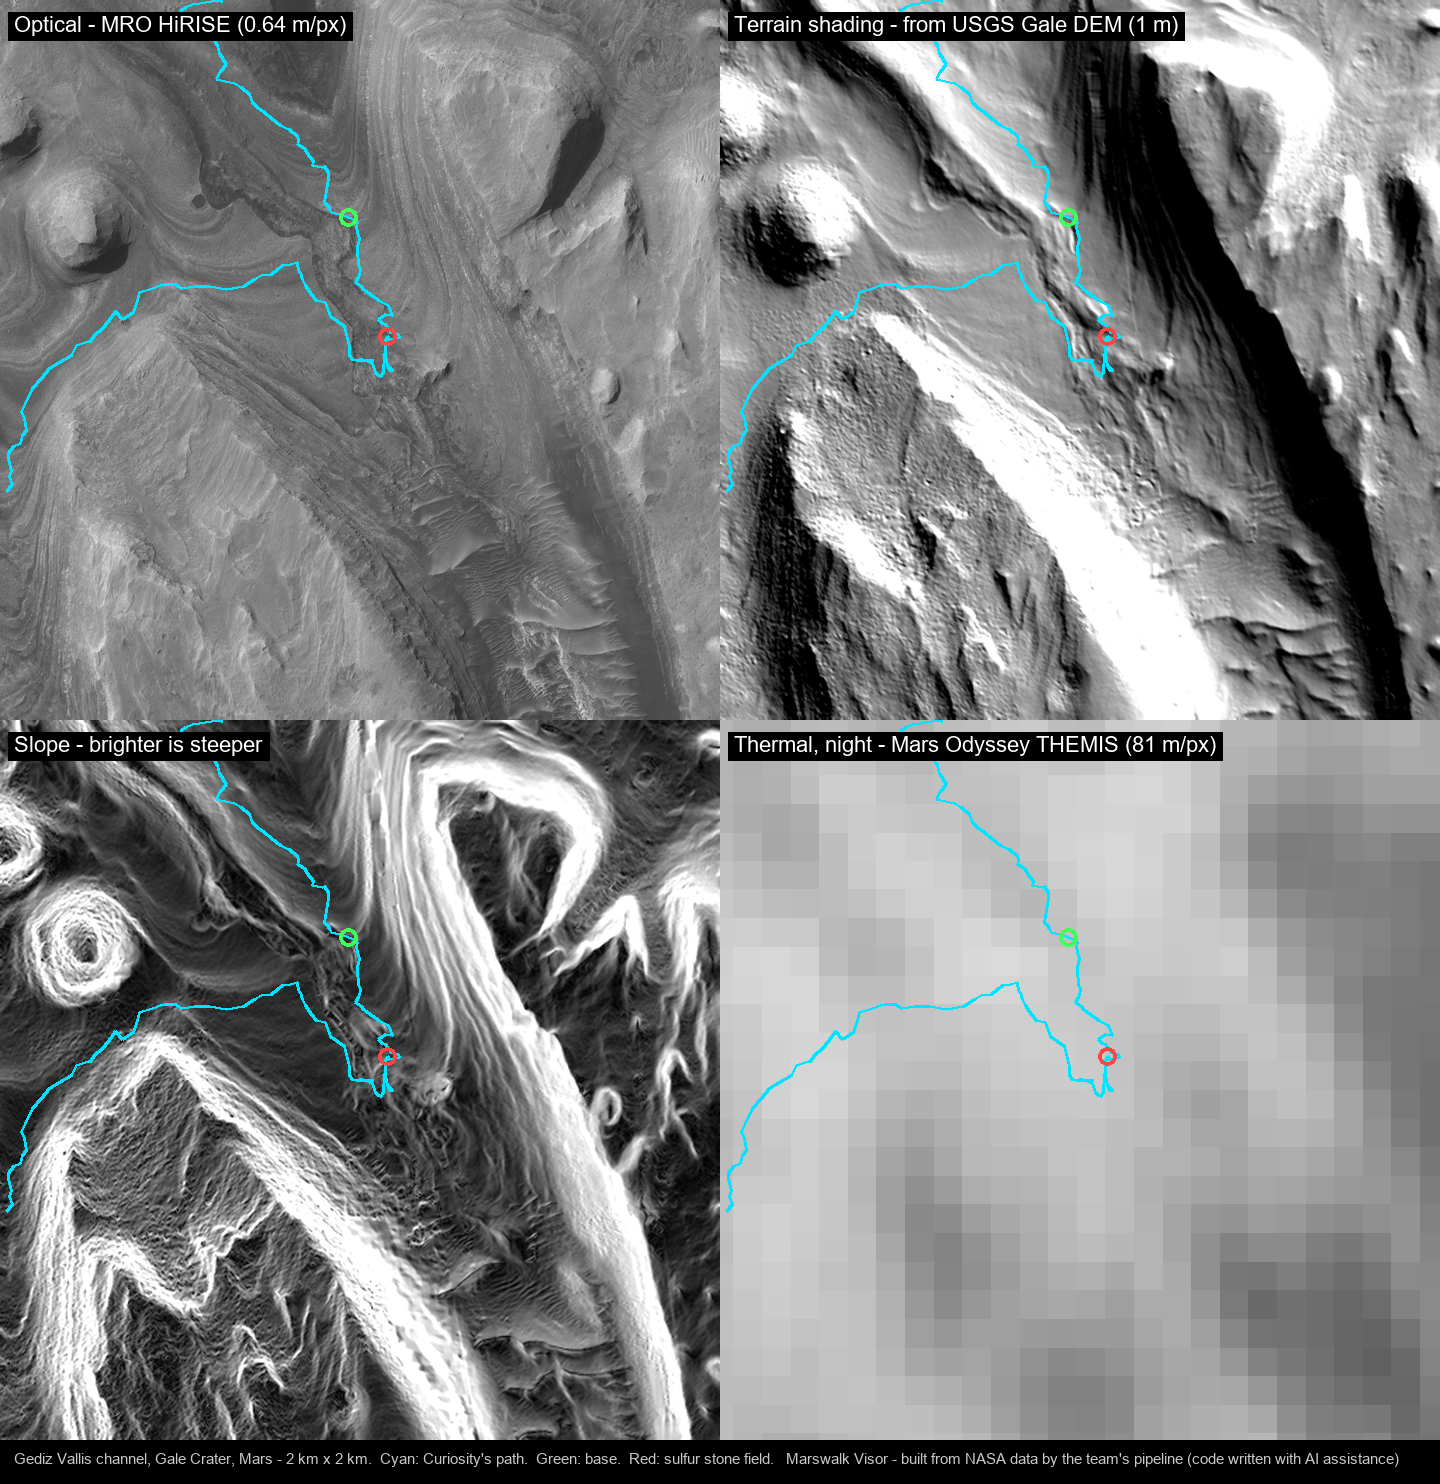
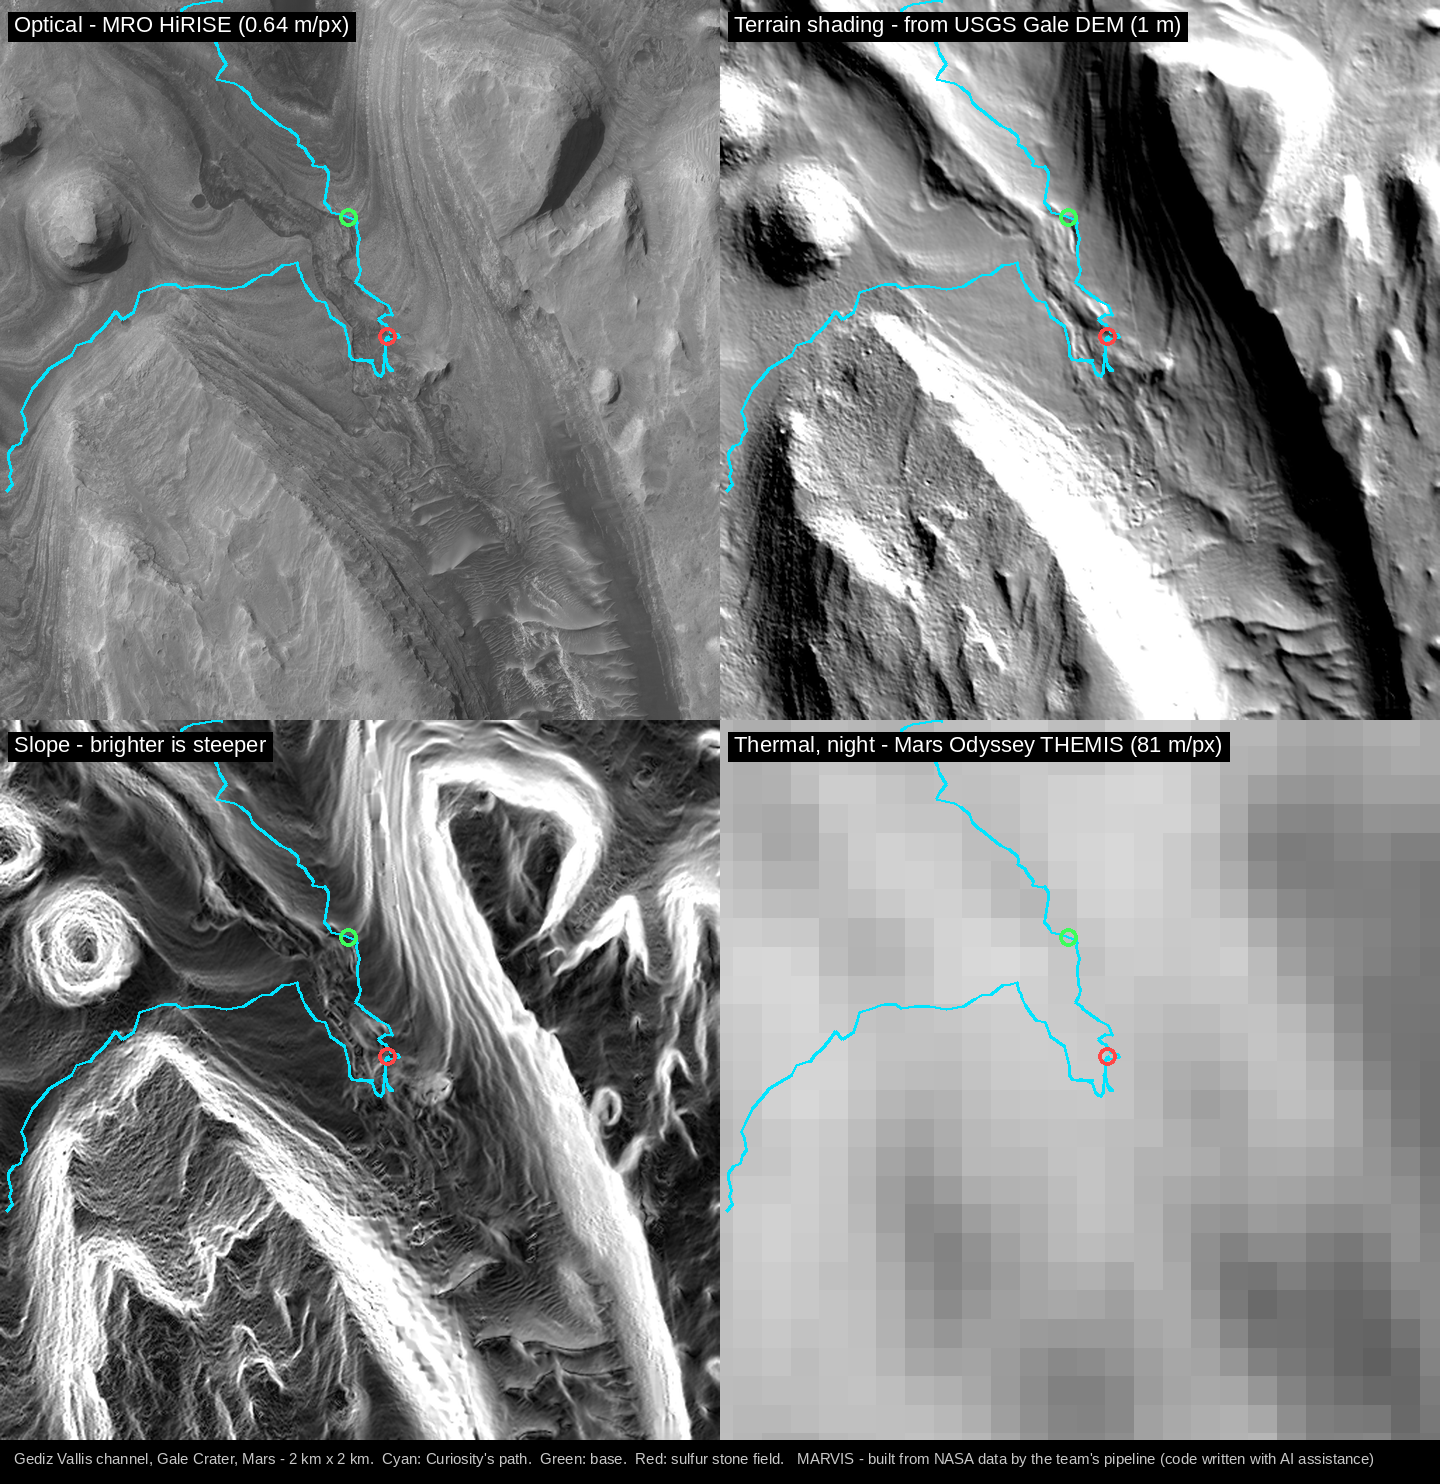
Rename the project MARVIS: page titles, README, submission text, the note under the figures
The figures are redrawn with the new name. Where there is no Arial the script now takes
Liberation Sans, which has Arial's widths: with DejaVu Sans the note under layers.png ran
off the right edge. Names in the code (marswalk, the MARSWALK hotspot) keep the old name.

diff --git a/mockups/hud-mockup.html b/mockups/hud-mockup.html
@@ -1,4 +1,4 @@
-<title>Marswalk Visor HUD Mockup</title>
+<title>MARVIS HUD Mockup</title>
 <link rel="stylesheet" href="https://fonts.googleapis.com/css2?family=Atkinson+Hyperlegible:ital,wght@0,400;0,700;1,400;1,700&display=swap">
 <link rel="stylesheet" href="https://cdn.jsdelivr.net/gh/orioncactus/pretendard@v1.3.9/dist/web/static/pretendard.min.css">
 <link rel="stylesheet" href="https://fonts.googleapis.com/css2?family=Material+Symbols+Rounded:opsz,wght,FILL,GRAD@24,400,0..1,0&icon_names=check_circle,error,layers,link_off,navigation,warning&display=block">
@@ -234,7 +234,7 @@ code{font-family:ui-monospace,Menlo,Consolas,monospace;font-size:.9em;background
 
 <div class="page">
   <header style="display:flex;flex-direction:column;gap:12px">
-    <h1>Marswalk Visor HUD Mockup</h1>
+    <h1>MARVIS HUD Mockup</h1>
     <p class="lede">The central part of the Quest 3 passthrough view (about 70° wide), drawn flat for a design check. Colours, type, radii and wording follow the Point design system, combo 1.</p>
     <p class="notice"><span class="ms">warning</span><span>Atmosphere and radiation values have not been extracted from NASA data yet. A dash with a <b>TBD</b> tag means the value is not set. The map terrain is synthetic.</span></p>
   </header>

diff --git a/jetson/marswalk/static/index.html b/jetson/marswalk/static/index.html
@@ -3,7 +3,7 @@
 <head>
 <meta charset="utf-8">
 <meta name="viewport" content="width=device-width, initial-scale=1">
-<title>Marswalk Hub Test</title>
+<title>MARVIS Hub Test</title>
 <style>
   :root { color-scheme: dark; --bg:#111; --fg:#eee; --dim:#888; --ok:#4c4; --warn:#fc3; --crit:#f44; }
   body { margin:0; padding:16px; background:var(--bg); color:var(--fg); font:16px/1.4 system-ui, sans-serif; }
@@ -19,7 +19,7 @@
 </style>
 </head>
 <body>
-<h1>Marswalk Jetson hub connection check</h1>
+<h1>MARVIS Jetson hub connection check</h1>
 <p class="dim">Test page the hub serves while B's web app (web/dist) is not built yet. Open the same address from the headset, a laptop or a phone.</p>
 <div class="row">
   <span class="pill">Secure context: <b id="secure"></b></span>

diff --git a/web/src/core/debug.js b/web/src/core/debug.js
@@ -35,7 +35,7 @@ export function initDebug({ el, mock, keys }) {
       return `<tr><td>${name}</td><td class="n">${counts.get(name)}</td><td class="p" title='${p.replaceAll("'", '&#39;')}'>${p}</td></tr>`;
     });
     el.innerHTML =
-      `<h1>Marswalk Visor <span class="tag">${mockOn.length ? `mock: ${mockOn.join(', ')}` : 'live link'}</span></h1>` +
+      `<h1>MARVIS <span class="tag">${mockOn.length ? `mock: ${mockOn.join(', ')}` : 'live link'}</span></h1>` +
       `<table>${rows.join('')}</table>` +
       (keys ? `<div style="margin-top:6px;color:#9aa0a6">${keys}</div>` : '') +
       `<div style="margin-top:6px"><a href="./check.html">Device check page</a></div>`;

diff --git a/web/check.html b/web/check.html
@@ -3,7 +3,7 @@
   <head>
     <meta charset="utf-8" />
     <meta name="viewport" content="width=device-width, initial-scale=1" />
-    <title>Device check · Marswalk Visor</title>
+    <title>Device check · MARVIS</title>
     <style>
       html, body { margin: 0; background: #0b0d10; color: #e8eaed; font-family: system-ui, sans-serif; }
       main { max-width: 1100px; margin: 0 auto; padding: 24px; }

diff --git a/web/index.html b/web/index.html
@@ -3,7 +3,7 @@
   <head>
     <meta charset="utf-8" />
     <meta name="viewport" content="width=device-width, initial-scale=1" />
-    <title>Marswalk Visor</title>
+    <title>MARVIS</title>
     <style>
       html, body { margin: 0; height: 100%; background: #0b0d10; color: #e8eaed; font-family: system-ui, sans-serif; overflow: hidden; }
       #app { position: fixed; inset: 0; }

diff --git a/data-pipeline/validate.py b/data-pipeline/validate.py
@@ -405,7 +405,9 @@ if "--figure" in sys.argv:
     FIG.mkdir(parents=True, exist_ok=True)
 
     def font(size):
-        for name in ("arial.ttf", "DejaVuSans.ttf"):
+        # Liberation Sans has Arial's widths: where there is no Arial (Linux) the captions still
+        # fit. DejaVu Sans is wider, and the note under layers.png ran off the right edge with it.
+        for name in ("arial.ttf", "LiberationSans-Regular.ttf", "DejaVuSans.ttf"):
             try:
                 return ImageFont.truetype(name, size)
             except OSError:
@@ -419,7 +421,7 @@ if "--figure" in sys.argv:
         d.text(xy, text, font=f, fill=fill)
 
     CYAN, YELLOW, GREEN, RED = (0, 229, 255), (255, 214, 0), (60, 255, 90), (255, 70, 70)
-    NOTE = "Marswalk Visor - built from NASA data by the team's pipeline (code written with AI assistance)"
+    NOTE = "MARVIS - built from NASA data by the team's pipeline (code written with AI assistance)"
 
     # 1) The four layers in one image
     P = 720

diff --git a/docs/SUBMISSION.md b/docs/SUBMISSION.md
@@ -49,11 +49,11 @@ Where the numbers come from: every data number in the text was computed from the
 
 ## Project Name
 
-Marswalk Visor
+MARVIS
 
 ## High-Level Project Summary
 
-**Marswalk Visor** is a helmet heads-up display for an astronaut walking on Mars. It layers data from four NASA Mars missions into one map of a single walkable site, plans a route across it that a person in a spacesuit could walk, rewrites the map with what the helmet itself sees nearby, and keeps the crew's safety data in view while their hands stay free.
+**MARVIS** is a helmet heads-up display for an astronaut walking on Mars. It layers data from four NASA Mars missions into one map of a single walkable site, plans a route across it that a person in a spacesuit could walk, rewrites the map with what the helmet itself sees nearby, and keeps the crew's safety data in view while their hands stay free.
 
 Orbital maps of Mars are built for regional views. At the scale of a spacewalk they run out of detail: across our 2 km site the best optical image resolves about 0.64 m per pixel, and the thermal image is only 25 pixels wide. NASA's own experience at our site shows the gap. When the Curiosity rover reached a pale patch of ground in Gediz Vallis channel, it found a field of pure sulfur stones that, as JPL reported, had been "too small for MRO's High-Resolution Imaging Science Experiment (HiRISE) to see."
 

diff --git a/README.md b/README.md
@@ -1,7 +1,9 @@
-# Marswalk Visor (working title)
+# MARVIS
 
 **A three-layer map on a Mars explorer's helmet.**
 An entry for the 2026 NASA Space Apps Challenge — *Interplanetary Survival Guide: Martian Map*.
+
+The project was called Marswalk Visor until 2026-11-15. Names in the code (`marswalk`, the `MARSWALK` hotspot, the demo video's file name) keep the old name.
 
 > A helmet HUD that builds the map and the route from NASA data, fills in nearby obstacles with the helmet's sensors, and changes the route when the suit's condition becomes dangerous.
 
